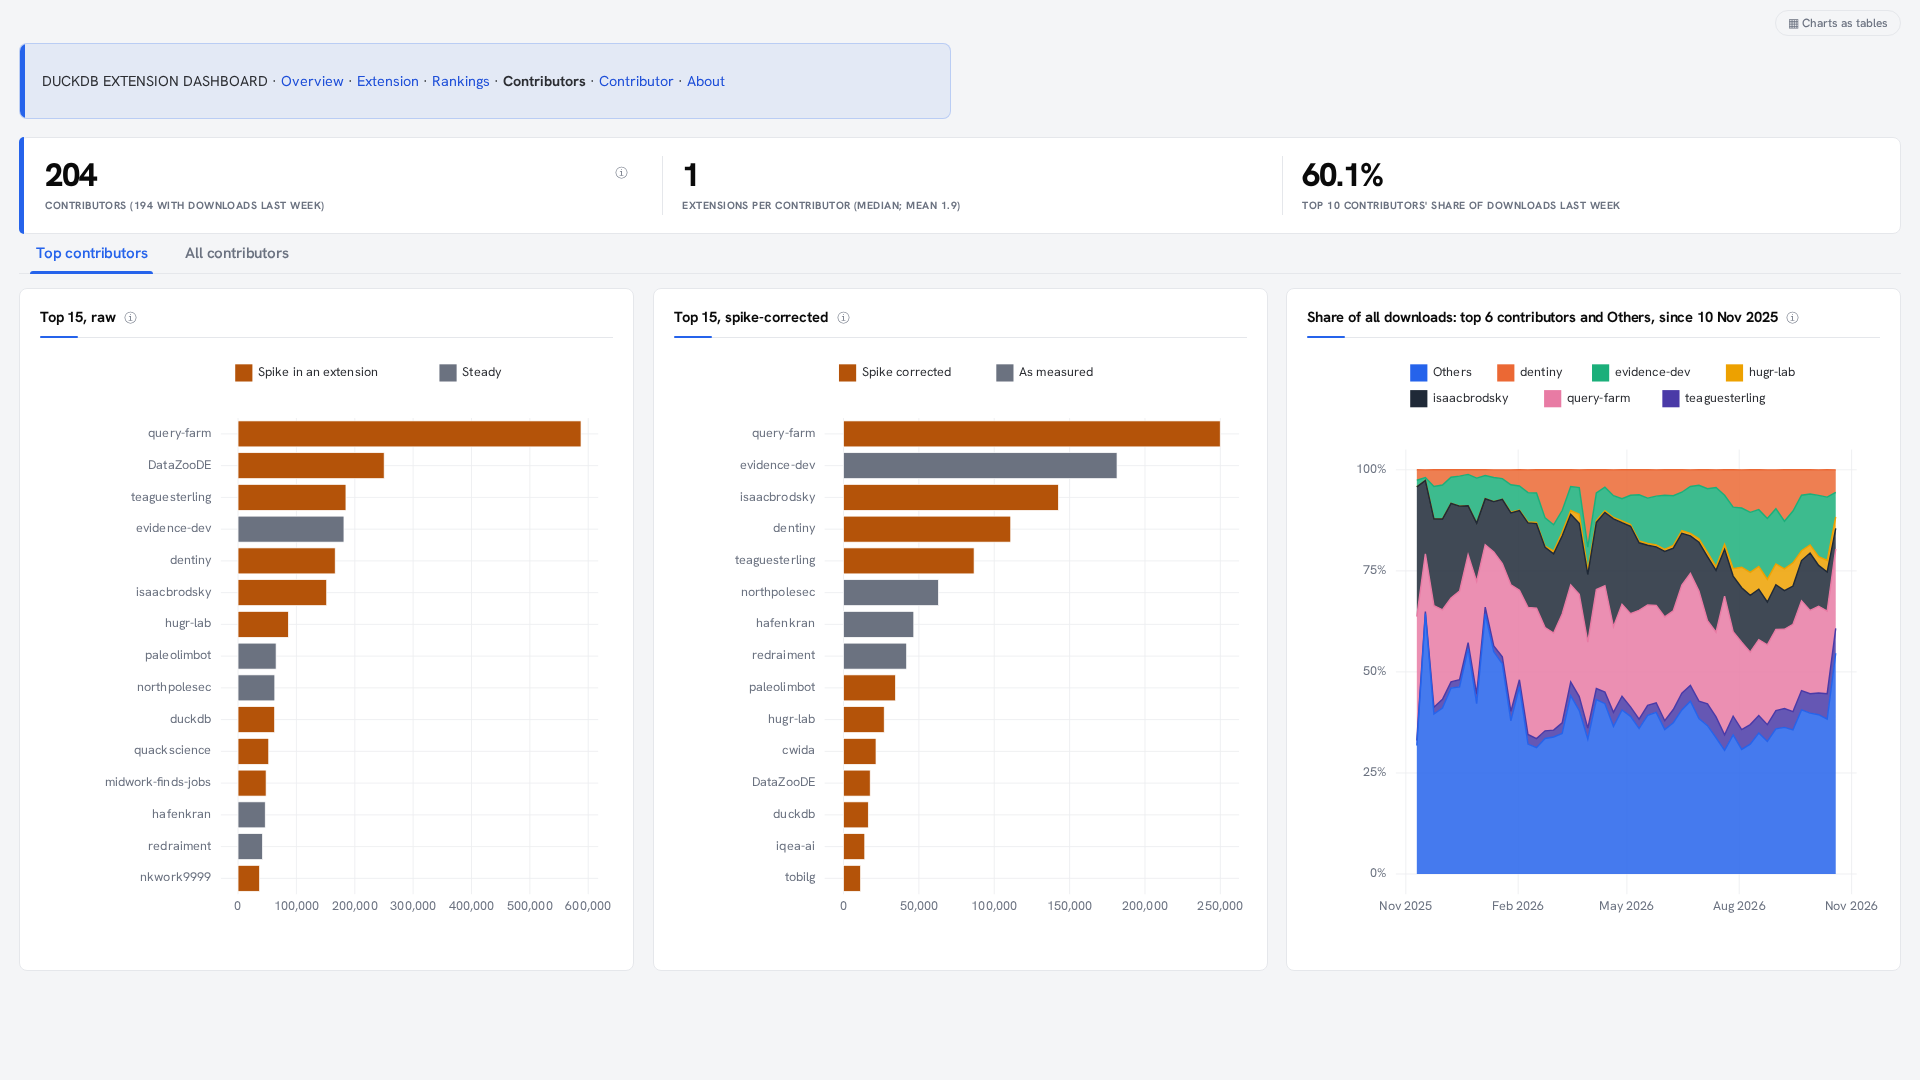
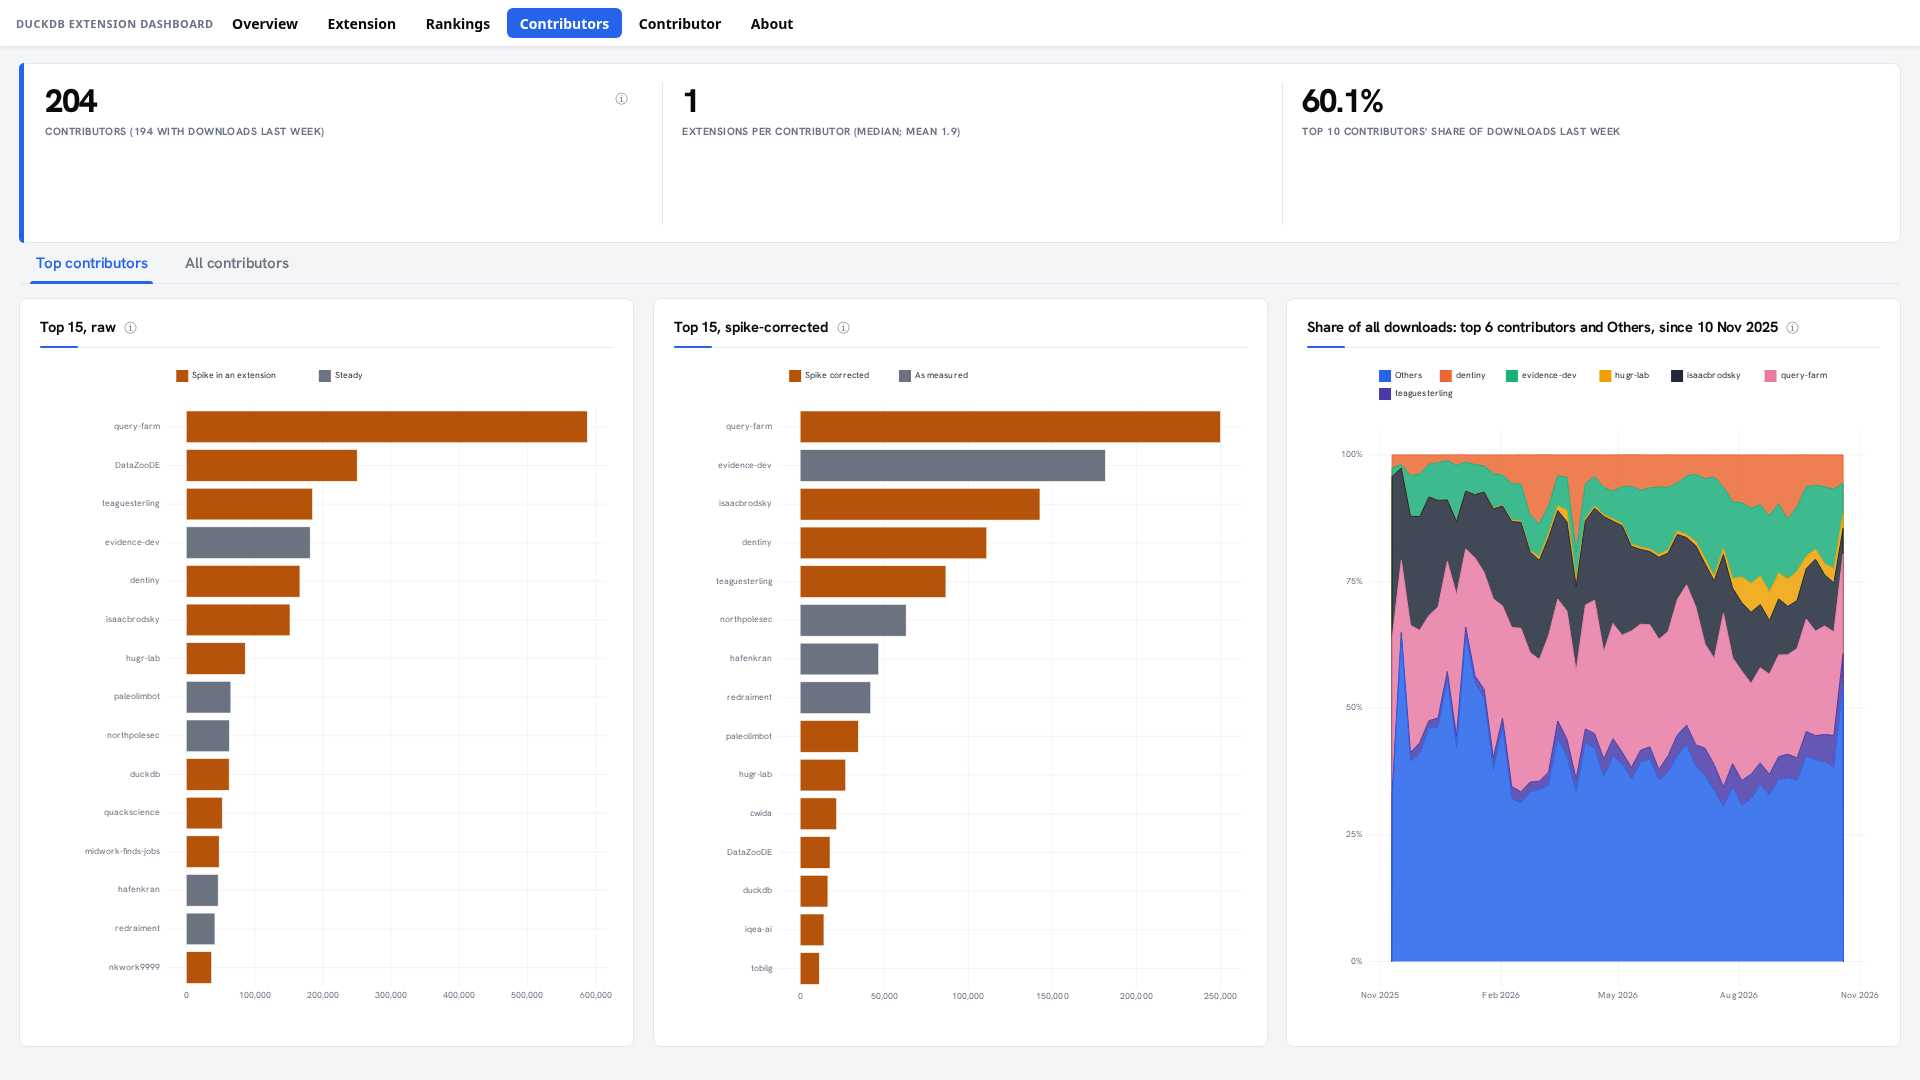
anofox-visualization v2026.10.24; the site behaves like the server: served nav, in-place switching, fit to screen
- Pin v2026.10.24 (the app is built from it): every page 'fit'::FIT, so it
  fills any window without scrolling; About splits its snapshot table into
  a second tab to fit 1366x768 too.
- The site no longer reloads the app per click: our copy of the app gets
  the server's served nav (same markup), and a small router switches
  dashboards in place (nav and drill-through links), with pushState so
  back/forward, refresh and shared links work. The general feature is
  requested upstream as anofox-visualization#417.
- Fix: the router no longer strips #sql= before the app reads it (the
  app showed its own first example after a full load).
- Fresh README screenshots.

diff --git a/site-tools/build-site.py b/site-tools/build-site.py
@@ -51,19 +51,10 @@ def pages() -> list:
     return sorted(out, key=lambda p: (p["order"], p["id"]))
 
 
-def site_sql(p: dict, all_pages: list) -> str:
-    sql = p["sql"]
-    # drill-through links: /d/<id>?v.x={…} -> ../<id>.html?v.x={…} (the app runs in app/)
-    sql = re.sub(r"'/d/([A-Za-z0-9_-]+)", r"'../\1.html", sql)
-    links = " · ".join(("**" + q["nav"] + "**") if q["id"] == p["id"] else f"[{q['nav']}](../{q['id']}.html)"
-                       for q in all_pages)
-    nav = (f"SELECT '{NAME.upper()}  ·  {links}'::MARKDOWN;\n").replace("''", "'")
-    # insert the nav after the header comments, before the first statement
-    lines = sql.splitlines(keepends=True)
-    i = 0
-    while i < len(lines) and (lines[i].startswith("--") or not lines[i].strip()):
-        i += 1
-    return "".join(lines[:i]) + nav + "\n" + "".join(lines[i:])
+def site_sql(p: dict) -> str:
+    # drill-through links: /d/<id>?v.x={…} -> ../<id>.html?v.x={…}; the
+    # in-app router (SITE_JS) catches these and switches without a reload
+    return re.sub(r"'/d/([A-Za-z0-9_-]+)", r"'../\1.html", p["sql"])
 
 
 LAUNCHER = """<!doctype html><html lang="en"><head><meta charset="utf-8">
@@ -81,35 +72,125 @@ noscript p{{font:15px system-ui,sans-serif;margin:40px;color:#444}}</style>
   var full = "SET VARIABLE anofox_data = '" + base + "data';\\n" + sql;
   var b64 = btoa(unescape(encodeURIComponent(full)));
   var q = location.search ? "&" + location.search.slice(1) : "";
-  location.replace(base + "app/?embed=1" + q + "#sql=" + b64);
+  location.replace(base + "app/?embed=1&page={id}" + q + "#sql=" + b64);
 }})();
 </script></body></html>
 """
 
 
-# Two small patches to our copy of the app's index.html (we host it only for
-# these view-only dashboards):
-#  - start in embed mode: the app adds `embed` to <body> from JavaScript, so
-#    the editor layout (sidebar, toolbar) flashes before it; set it upfront;
-#  - keep our own links in this tab: the app's Markdown links (our nav) open
-#    in a new tab (target=_blank); a link to this site opens in place.
-SAME_TAB = """<script>
-document.addEventListener("click", function (e) {
-  var a = e.target.closest && e.target.closest("a[href]");
-  if (!a || e.ctrlKey || e.metaKey || e.shiftKey || e.button !== 0) return;
+# Patches to our copy of the app (we host it only for these view-only
+# dashboards). Each one fails the build loudly if the app changed under it.
+#  - index.html starts in embed mode: the app sets `embed` on <body> from
+#    JavaScript, so the editor layout (sidebar, toolbar) flashed before it;
+#  - app.js gets two hooks: window.__siteGo(name, sql, qs) loads another
+#    dashboard into the running app (as loadDash does, plus ?v.… seeds), and
+#    followLink asks window.__siteFollow first, so a drill-through link to one
+#    of our pages switches in place instead of reloading the whole app;
+#  - index.html gets the site router (SITE_JS): the served nav (same markup
+#    and classes as the locked server's), switching dashboards in place with
+#    history.pushState (back / forward / refresh / shared links keep working),
+#    and links to this site kept in this tab.
+APP_HOOK = """
+// ---- duckdb-extension-dashboard: in-place dashboard switch (site router) ----
+window.__siteGo = function (name, sql, qs) {
+  dashStateReset();
+  dpUrlSeed = readUrlSeed(qs || "");
+  $("sql").value = sql;
+  $("dash-name").value = name || "";
+  run(true, { explicit: true });
+};
+"""
+
+SITE_JS = """<script>
+(function () {
+  var S = window.__SITE;
   var site = location.href.replace(/[?#].*$/, "").replace(/app\\/[^/]*$/, "");
-  if (a.href.indexOf(site) === 0) { e.preventDefault(); e.stopPropagation(); location.assign(a.href); }
-}, true);
+  var data = "SET VARIABLE anofox_data = '" + site + "data';\\n";
+  var byId = {};
+  S.pages.forEach(function (p) { byId[p.id] = p; });
+  function nav(active) {
+    var old = document.querySelector(".site-served-nav");
+    if (old) old.remove();
+    var n = document.createElement("nav");
+    n.className = "served-nav site-served-nav";
+    n.setAttribute("aria-label", "Dashboards");
+    var g = document.createElement("span"); g.className = "served-nav-grp";
+    var l = document.createElement("span"); l.className = "served-nav-group"; l.textContent = S.name;
+    g.appendChild(l);
+    S.pages.forEach(function (p) {
+      var a = document.createElement("a");
+      a.href = site + p.id + ".html"; a.textContent = p.nav; a.title = p.title;
+      if (p.id === active) { a.className = "active"; a.setAttribute("aria-current", "page"); }
+      g.appendChild(a);
+    });
+    n.appendChild(g);
+    var dash = document.querySelector(".dash");
+    if (dash && dash.parentNode) dash.parentNode.insertBefore(n, dash);
+  }
+  function go(id, qs, push) {
+    var p = byId[id];
+    if (!p || !window.__siteGo) return false;
+    if (push) history.pushState({ site: id }, "", site + id + ".html" + (qs || ""));
+    document.title = p.nav + " · " + S.name;
+    nav(id);
+    window.__siteGo(p.title, data + p.sql, qs || "");
+    window.scrollTo(0, 0);
+    return true;
+  }
+  function route(href) {
+    var m = String(href).replace(site, "").match(/^(?:\\.\\.\\/)?([A-Za-z0-9_-]+)\\.html(\\?[^#]*)?$/);
+    return m && byId[m[1]] ? { id: m[1], qs: m[2] || "" } : null;
+  }
+  window.__siteFollow = function (u) {
+    var r = route(u.indexOf("://") > 0 ? u : new URL(u, location.href).href);
+    return r ? go(r.id, r.qs, true) : false;
+  };
+  document.addEventListener("click", function (e) {
+    var a = e.target.closest && e.target.closest("a[href]");
+    if (!a || e.ctrlKey || e.metaKey || e.shiftKey || e.button !== 0) return;
+    var r = route(a.href);
+    if (r) { e.preventDefault(); e.stopPropagation(); go(r.id, r.qs, true); }
+    else if (a.href.indexOf(site) === 0) { e.preventDefault(); e.stopPropagation(); location.assign(a.href); }
+  }, true);
+  window.addEventListener("popstate", function () {
+    var r = route(location.href);
+    if (r) go(r.id, location.search, false);
+  });
+  // first load (from a launcher): show the nav once the dashboard is there,
+  // and put the launcher's own address back (not app/?embed=1#sql=…)
+  var sp = new URLSearchParams(location.search);
+  var first = byId[sp.get("page")] ? sp.get("page") : S.start;
+  sp.delete("embed"); sp.delete("page");
+  var rest = sp.toString();
+  // (the app reads #sql= when its module runs, after this script: tidy the
+  // address only once the dashboard is up)
+  document.title = byId[first].nav + " · " + S.name;
+  var tries = 0, iv = setInterval(function () {
+    if (document.querySelector(".dash .grid > *") || ++tries > 400) {
+      clearInterval(iv);
+      history.replaceState({ site: first }, "", site + first + ".html" + (rest ? "?" + rest : ""));
+      nav(first);
+    }
+  }, 25);
+})();
 </script>"""
 
 
-def patch_app(index: Path) -> None:
+def patch_app(app_dir: Path, pages_json: str) -> None:
+    index = app_dir / "index.html"
     s = index.read_text(encoding="utf-8")
     s2 = s.replace('<body class="mode-view">', '<body class="mode-view embed">', 1)
     if s2 == s:
-        raise SystemExit("build-site: app/index.html has no <body class=\"mode-view\"> (app changed? check the patch)")
-    s2 = s2.replace("</body>", SAME_TAB + "\n</body>", 1)
+        raise SystemExit('build-site: app/index.html has no <body class="mode-view"> (app changed? check the patch)')
+    s2 = s2.replace("</body>", "<script>window.__SITE = " + pages_json + ";</script>\n" + SITE_JS + "\n</body>", 1)
     index.write_text(s2, encoding="utf-8")
+    js = app_dir / "app.js"
+    a = js.read_text(encoding="utf-8")
+    hook = "function followLink(url) {"
+    if hook not in a or "function loadDash(" not in a or "let dpUrlSeed" not in a:
+        raise SystemExit("build-site: app.js changed (followLink / loadDash / dpUrlSeed); check the patches")
+    a = a.replace(hook, hook + "\n  if (window.__siteFollow && window.__siteFollow(String(url ?? \"\").trim())) return;", 1)
+    js.write_text(a + APP_HOOK, encoding="utf-8")
 
 
 def main() -> int:
@@ -125,16 +206,17 @@ def main() -> int:
     if out.exists():
         shutil.rmtree(out)
     shutil.copytree(app, out / "app", ignore=shutil.ignore_patterns(".gitignore", "*.map"))
-    patch_app(out / "app" / "index.html")
     (out / "data").mkdir()
     for f in ["downloads.parquet", "extensions.parquet", "duckdb_releases.parquet", "meta.json"]:
         shutil.copy2(data / f, out / "data" / f)
     ps = pages()
+    site_pages = [{"id": p["id"], "nav": p["nav"], "title": p["title"], "sql": site_sql(p)} for p in ps]
     for p in ps:
         page = LAUNCHER.format(title=html.escape(p["nav"]), name=NAME, desc=html.escape(p["title"]),
-                               sql=json.dumps(site_sql(p, ps)))
+                               sql=json.dumps(site_sql(p)), id=p["id"])
         (out / f"{p['id']}.html").write_text(page, encoding="utf-8")
     shutil.copy2(out / f"{ps[0]['id']}.html", out / "index.html")
+    patch_app(out / "app", json.dumps({"name": NAME, "start": ps[0]["id"], "pages": site_pages}).replace("</", "<\\/"))
     (out / ".nojekyll").write_text("")
     print(f"site: {len(ps)} dashboards ({', '.join(p['id'] for p in ps)}) + the app in {out}")
     return 0
